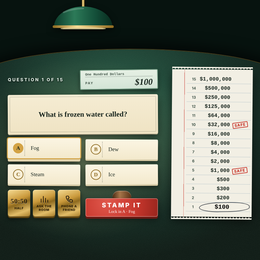
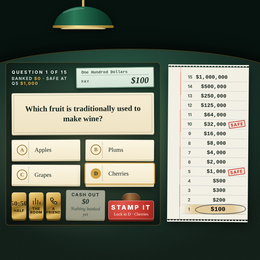
Hot Seat: bolder light-drop on lock-in, gold flash on a right answer, cash-out tile fix, new catalogue shot
Claude-Session: https://claude.ai/code/session_01PvTdTqVLM6S8nuShoQQgvp

Changed region(s): [[0.0, 0.2154, 0.9846, 0.8615]]

diff --git a/games/who_wants_to_be_a_millionaire.html b/games/who_wants_to_be_a_millionaire.html
@@ -29,8 +29,8 @@ body{background:var(--wall);color:var(--ivory);font-family:var(--book);overflow:
 #cone{position:absolute;left:calc(50% - 9rem);top:0;width:90vmin;height:62%;transform:translateX(-50%);background:conic-gradient(from 180deg at 50% 0,transparent 156deg,rgba(255,230,160,.10) 166deg,rgba(255,230,160,.22) 180deg,rgba(255,230,160,.10) 194deg,transparent 204deg);-webkit-mask-image:linear-gradient(#000 30%,transparent);mask-image:linear-gradient(#000 30%,transparent);transition:opacity .8s}
 #lamp{position:absolute;left:calc(50% - 9rem);top:0;width:15rem;transform:translateX(-50%);filter:drop-shadow(0 6px 10px rgba(0,0,0,.6))}
 #dim{position:absolute;inset:0;overflow:hidden;opacity:0;transition:opacity .9s}
-#dim i{position:absolute;left:var(--cx,50%);top:var(--cy,50%);width:240vmax;height:240vmax;margin:-120vmax 0 0 -120vmax;border-radius:50%;background:radial-gradient(closest-side,transparent 16%,rgba(0,0,0,.95) 25%);transform:scale(1);transition:transform .6s ease-out}
-body.locked #dim i{transform:scale(.55);transition:transform var(--sus,1.5s) cubic-bezier(.4,0,.8,1)}
+#dim i{position:absolute;left:var(--cx,50%);top:var(--cy,50%);width:240vmax;height:240vmax;margin:-120vmax 0 0 -120vmax;border-radius:50%;background:radial-gradient(closest-side,transparent 16%,rgba(0,0,0,.985) 22%);transform:scale(1);transition:transform .6s ease-out}
+body.locked #dim i{transform:scale(.42);transition:transform var(--sus,1.5s) cubic-bezier(.4,0,.8,1)}
 body.locked #dim{opacity:1;transition:opacity .4s}body.locked #pool,body.locked #cone{position:absolute;left:calc(50% - 9rem);top:0;width:90vmin;height:62%;transform:translateX(-50%);background:conic-gradient(from 180deg at 50% 0,transparent 156deg,rgba(255,230,160,.10) 166deg,rgba(255,230,160,.22) 180deg,rgba(255,230,160,.10) 194deg,transparent 204deg);-webkit-mask-image:linear-gradient(#000 30%,transparent);mask-image:linear-gradient(#000 30%,transparent);transition:opacity .8s}
 #play .wrap{position:relative;z-index:1;width:100%;max-width:62rem;display:grid;grid-template-columns:minmax(0,1fr) 15.5rem;gap:0 2.6rem;align-content:center;padding:6.5rem 1.5rem 1.4rem;align-items:stretch}
 .col{display:flex;flex-direction:column;gap:1rem;min-width:0;position:relative}
@@ -69,12 +69,12 @@ body.locked #dim{opacity:1;transition:opacity .4s}body.locked #pool,body.locked 
 .ll.used svg{stroke:rgba(245,236,211,.35);filter:none}.ll.used b{text-shadow:none}
 .ll.used::after{content:"USED";position:absolute;right:-.3rem;bottom:-.55rem;transform:rotate(-9deg);font:800 .85rem var(--cond);letter-spacing:.18em;color:var(--stamp);border:2px solid var(--stamp);padding:0 .3rem;border-radius:.2rem;background:var(--wall)}
 .acts{display:flex;gap:.6rem;align-items:flex-end}
-.final{all:unset;cursor:pointer;order:2;flex:1.25;display:flex;flex-direction:column;align-items:center;transition:transform .1s}
+.final{all:unset;cursor:pointer;order:2;flex:1.25 1 9rem;display:flex;flex-direction:column;align-items:center;transition:transform .1s}
 .final .knob{width:3.6rem;height:1.5rem;border-radius:1.4rem 1.4rem .3rem .3rem;background:linear-gradient(90deg,#4a2c14,#a8764a 40%,#5a3418);box-shadow:inset 0 2px 0 rgba(255,255,255,.28);margin-bottom:-1px;transition:transform .12s}
 .final .face{width:100%;background:radial-gradient(circle at 30% 20%,#e0584c,var(--stamp) 55%,#98251d);border-radius:.4rem;padding:.55rem .6rem .5rem;text-align:center;font:800 1.2rem var(--cond);letter-spacing:.2em;text-transform:uppercase;color:#fff;white-space:nowrap;box-shadow:0 6px 0 #6b1812,inset 0 0 0 2px rgba(255,255,255,.3),0 10px 20px rgba(0,0,0,.4);transition:transform .12s,box-shadow .12s}
 .final:active .face,.final:active .knob{transform:translateY(5px)}.final:active .face{box-shadow:0 1px 0 #6b1812,inset 0 0 0 2px rgba(255,255,255,.3)}
 .final small{display:block;font:500 .8rem var(--book);letter-spacing:0;text-transform:none;opacity:.95;margin-top:.1rem}
-.walk{all:unset;cursor:pointer;order:1;flex:1;box-sizing:border-box;align-self:stretch;display:flex;flex-direction:column;justify-content:center;background:linear-gradient(#fbf5e3,#f3e9cc);color:var(--ink);border-radius:.3rem;padding:.4rem .7rem;text-align:center;font:700 .85rem/1.25 var(--cond);letter-spacing:.14em;text-transform:uppercase;box-shadow:0 4px 0 var(--ivory2),0 8px 14px rgba(0,0,0,.45);transform:rotate(.6deg)}
+.walk{all:unset;cursor:pointer;order:1;flex:1 1 7.5rem;min-width:7.5rem;box-sizing:border-box;align-self:stretch;display:flex;flex-direction:column;justify-content:center;background:linear-gradient(#fbf5e3,#f3e9cc);color:var(--ink);border-radius:.3rem;padding:.4rem .7rem;text-align:center;font:700 .85rem/1.25 var(--cond);letter-spacing:.14em;text-transform:uppercase;box-shadow:0 4px 0 var(--ivory2),0 8px 14px rgba(0,0,0,.45);transform:rotate(.6deg)}
 .walk b{font:italic 800 1.35rem/1.2 var(--disp);letter-spacing:0;text-transform:none;display:block}
 .walk small{display:block;font:italic 500 .88rem var(--book);letter-spacing:0;text-transform:none;color:var(--ink2)}
 .walk:active{transform:translateY(3px)}
@@ -164,7 +164,7 @@ body[data-s=title] #lamp,body[data-s=title] #pool,body[data-s=title] #cone,body[
 .final.next .face{background:var(--brassg);color:#2a1c05;box-shadow:0 6px 0 #5d430f,inset 0 1px 0 #fff8,0 12px 24px rgba(0,0,0,.4)}
 .final.next .knob{background:linear-gradient(90deg,#1b3a2d,#2f6a50 40%,#1b3a2d)}
 .walk[disabled],.ll[disabled]{pointer-events:none}
-.walk[disabled]{opacity:.35}
+.walk[disabled]{opacity:.6}
 .ll.hint::before{content:"";position:absolute;inset:-.4rem;border-radius:.8rem;border:3px solid #fff;opacity:0;animation:ring 1.4s 2}
 @keyframes ring{0%{opacity:.9;transform:scale(.92)}100%{opacity:0;transform:scale(1.12)}}
 .tape li{transition:background .4s}
@@ -260,6 +260,8 @@ body.locked[data-tier="3"] #dim i,body.locked[data-tier="4"] #dim i{transform:sc
 .slip.shred{animation:shred .55s ease-in both}
 @keyframes shred{to{opacity:0;transform:translate(var(--sx,40px),30px) rotate(var(--sr,8deg)) scale(.9)}}
 .conf{position:fixed;top:-10px;width:.55rem;height:.9rem;z-index:8;pointer-events:none;border-radius:1px}
+
+#wash.gold{background:radial-gradient(70% 60% at 50% 50%,rgba(255,226,150,.0),rgba(255,226,150,.5))}
 
 </style>
 </head>
@@ -751,7 +753,7 @@ async function lockIn() {
     while (t + gap < dur) {
         await wait(gap); t += gap; k++;
         Snd.beat(Math.min(1, k / 6));
-        if (!RM.matches) { mine.animate([{scale: 1}, {scale: 1.045}, {scale: 1}], {duration: 240, easing: 'ease-out'}); $('#pool').animate([{opacity: 1}, {opacity: .35}, {opacity: 1}], {duration: 200}); }
+        if (!RM.matches) { mine.animate([{scale: 1, boxShadow: '0 0 0 3px #d3a345'}, {scale: 1.045, boxShadow: '0 0 0 6px #ffd37a, 0 0 40px 10px rgba(255,200,90,.7)'}, {scale: 1, boxShadow: '0 0 0 3px #d3a345'}], {duration: 260, easing: 'ease-out'}); $('#pool').animate([{opacity: 1}, {opacity: .35}, {opacity: 1}], {duration: 200}); }
         gap = Math.max(300, gap * .82);
     }
     await wait(Math.max(0, dur - t)); Snd.stopDrone(); await wait(260 + 140 * HOT.tierOf(lvl));
@@ -774,6 +776,7 @@ async function reveal(res, q, mine, pick) {
     els.forEach((b, i) => { if (i !== q.c && i !== pick) b.classList.add('dull'); });
     if (res.ok) {
         mine.classList.add('ok', 'flash'); mine.insertAdjacentHTML('beforeend', '<b class="st">CORRECT</b>');
+        { const w = $('#wash'); w.classList.add('gold'); w.classList.remove('on'); void w.offsetWidth; w.classList.add('on'); }
         renderLadder(); say(`Correct. ${money(LADDER[res.at])}.`);
         payoff(res.at);
         if (S.over === 'won') { Snd.win(); await wait(1800); return finish(); }
@@ -783,7 +786,7 @@ async function reveal(res, q, mine, pick) {
     } else {
         mine.classList.add('bad', 'shake'); mine.insertAdjacentHTML('beforeend', '<b class="st">WRONG</b>');
         Snd.wrong(); say(`Wrong. The answer was ${q.a[q.c]}.`);
-        { const w = $('#wash'); w.classList.remove('on'); void w.offsetWidth; w.classList.add('on'); }
+        { const w = $('#wash'); w.classList.remove('on', 'gold'); void w.offsetWidth; w.classList.add('on'); }
         await wait(RM.matches ? 300 : 900);
         els[q.c].classList.remove('dull'); els[q.c].classList.add('ok', 'flash'); els[q.c].insertAdjacentHTML('beforeend', '<b class="st">CORRECT</b>'); Snd.paper();
         renderLadder(); await wait(1700); finish();
